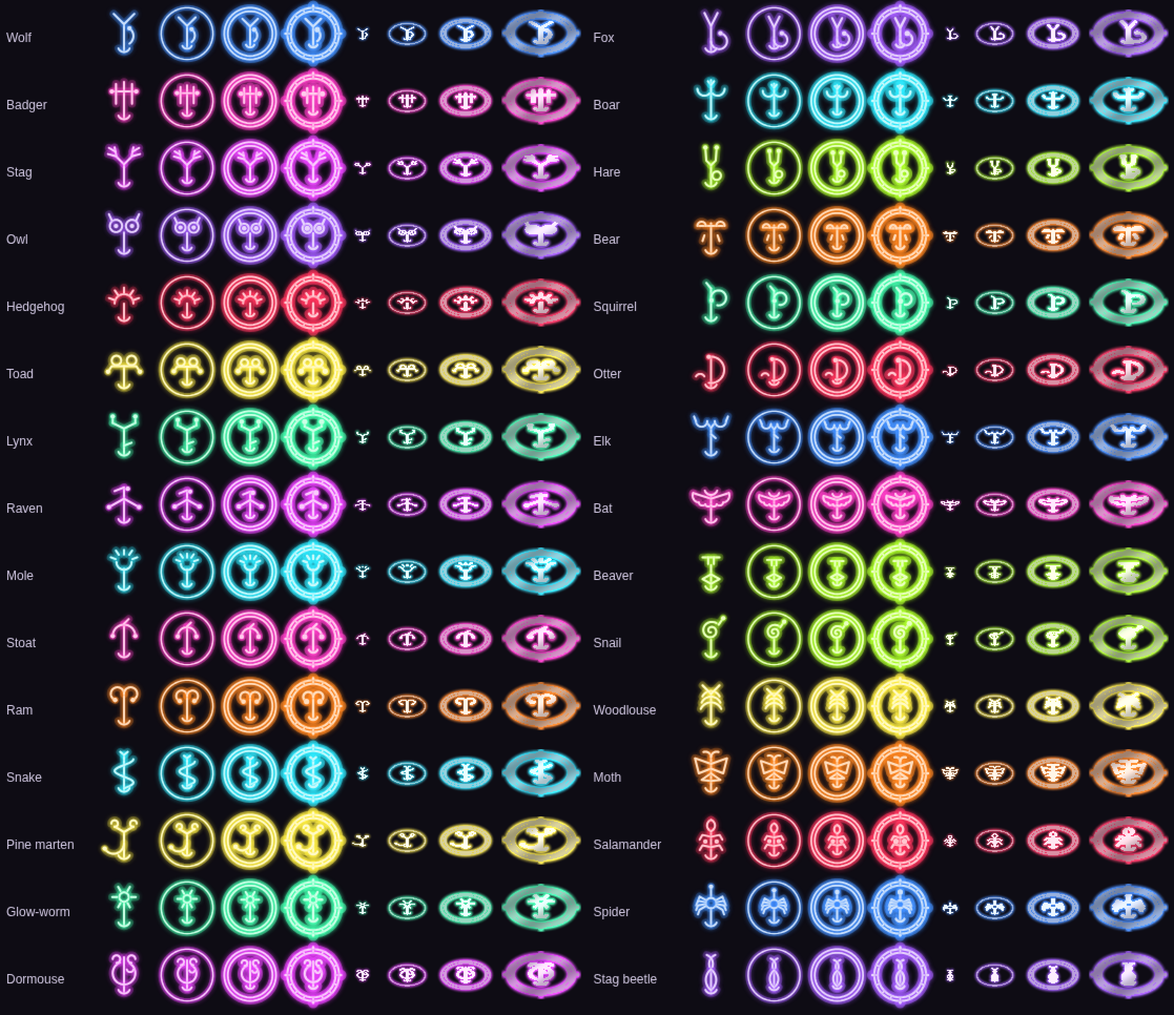
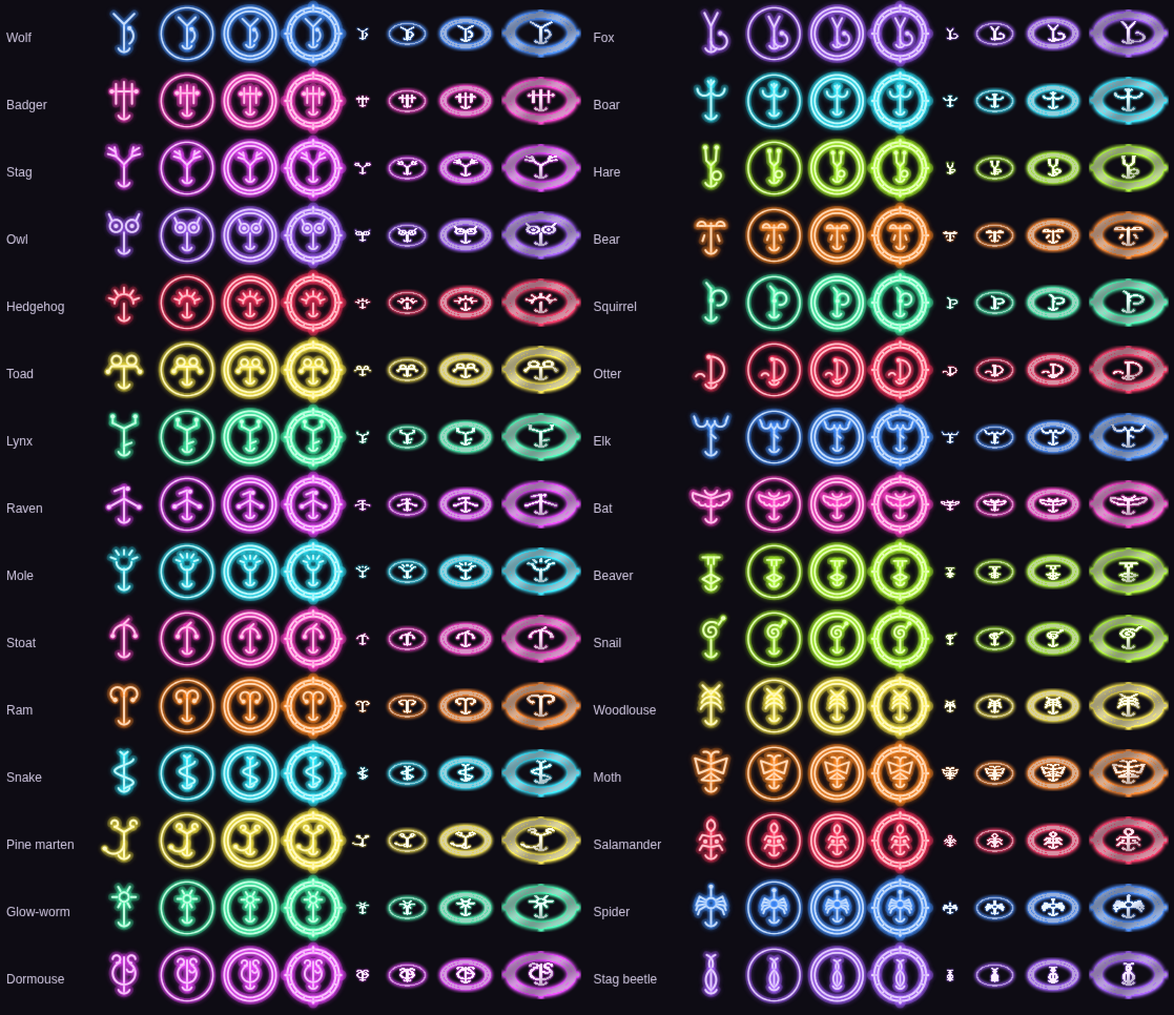
Flowers no longer glow; ground sigils stay crisp at adult and legend
Ed's playtest: gorse flowers glowed over bushes the night hid. FLOWER
leaves EMISSIVE; webs, cotton grass and the garden's white flowers move
to plain materials; only magical light glows (checked). The ground
sigil's glyph keeps thin core lines and a capped halo at every level,
the rings carrying the extra glow.

Claude-Session: https://claude.ai/code/session_01FVGKHvaavDn5xGsWtRTBaz

diff --git a/tools/art-lab/dist/witch-art-lab.html b/tools/art-lab/dist/witch-art-lab.html
@@ -248,6 +248,7 @@ const M = {
   SHADES: 46, FRAME: 47,       // sunglasses: dark lenses, fancy frames
   SHOE: 48, SOLE: 49,          // fancy shoes
   WOKEN: 50,   // a woken creature's angry glowing eyes
+  WEB: 51,     // pale silk and cotton: spider webs, cotton grass (lit, not glowing)
 };
 // These glow: drawn at full colour by the lighting pass, whatever the light.
 // The rune glyphs: one carved-rune language for the magic stones and the soundsystem. Simple,
@@ -266,7 +267,9 @@ function runeGlyph(u, v, k, w = .12) {
     default: return line(.3, .08, .3, .92) || line(.3, .12, .75, .35) || line(.75, .35, .3, .55) || line(.3, .55, .78, .92); // a hooked stave
   }
 }
-const EMISSIVE = new Set([M.GLINT, M.FLOWER, M.MAGIC, M.MAGIC2, M.RUNE, M.GLOW, M.COLLAR, M.WOKEN]);
+// Glowing materials (alpha 254, drawn unlit): only magical light. Flowers, webs and cotton are lit like
+// the rest of a plant (Ed's playtest: glowing gorse flowers floated over bushes the night hid).
+const EMISSIVE = new Set([M.GLINT, M.MAGIC, M.MAGIC2, M.RUNE, M.GLOW, M.COLLAR, M.WOKEN]);
 
 // ================= geometry: smooth outlines =================
 // Points are [x, y] in sprite pixels. A closed outline is a list of control points; the
@@ -634,7 +637,7 @@ function broadTree(r, st, s) {
   }
   roots(sp, bx, gy, tw * Math.sqrt(n), st, r, s);
   bark(sp, st);
-  if (st.treeWebs) for (let i = 0; i + 1 < tips.length; i += 2) { const a = tips[i], c = tips[i + 1], L = Math.hypot(c[0] - a[0], c[1] - a[1]); if (L < 40 * s) for (let j = 0; j <= L; j++) { const p = lerp2(a, c, j / L); sp.px(p[0], p[1] + Math.sin(j / L * Math.PI) * L * .15, M.GLINT, 0, 0, 1); } }
+  if (st.treeWebs) for (let i = 0; i + 1 < tips.length; i += 2) { const a = tips[i], c = tips[i + 1], L = Math.hypot(c[0] - a[0], c[1] - a[1]); if (L < 40 * s) for (let j = 0; j <= L; j++) { const p = lerp2(a, c, j / L); sp.px(p[0], p[1] + Math.sin(j / L * Math.PI) * L * .15, M.WEB, 0, 0, 1); } }
   if (st.treeBare) return trim(sp, bx, crownY + 4 * s);
   // clumps at the tips: back ones darker first, then the front
   tips.sort((a, b) => a[1] - b[1]);
@@ -770,7 +773,7 @@ function treeColours(r, st, type) {
   const h = st.leafHue + (r() - .5) * st.leafVariety * .7 + (type === firTree ? .06 : 0);
   return {
     [M.TRUNK]: hsv2rgb(st.trunkHue, .45 * st.sat, .34), [M.BARKD]: hsv2rgb(st.trunkHue + .03, .5 * st.sat, .17), [M.BARKL]: hsv2rgb(st.trunkHue - .01, .38 * st.sat, .5), [M.BARK2]: [222, 220, 212],
-    [M.LEAF]: hsv2rgb(h, .62 * st.sat, .58), [M.LEAF2]: hsv2rgb(h - .05, .55 * st.sat, .8), [M.LEAF3]: hsv2rgb(h + .03, .66 * st.sat, .38),
+    [M.LEAF]: hsv2rgb(h, .62 * st.sat, .58), [M.LEAF2]: hsv2rgb(h - .05, .55 * st.sat, .8), [M.LEAF3]: hsv2rgb(h + .03, .66 * st.sat, .38), [M.WEB]: [225, 225, 232],
   };
 }
 // The trunk was drawn with its roots and bark; this stays for callers of the old API.
@@ -1881,7 +1884,8 @@ function sigilMark(id, level = 0) {
     if (F.band && F.rings >= 2) for (let i = 0; i < 16; i++) { const a = (90 + i * 22.5) * Math.PI / 180, r0 = R - .06 + .014, r1 = R - .014; frame.push({ ...polyline({ l: [[.5 + r0 * Math.cos(a), .5 + r0 * Math.sin(a)], [.5 + r1 * Math.cos(a), .5 + r1 * Math.sin(a)]] }), w: ring * .8, part: "band" }); }
     for (let i = 0; i < F.rays; i++) { const a = (90 + i * 360 / F.rays) * Math.PI / 180, r0 = R + .02, r1 = .5 - ring / 2; frame.push({ ...polyline({ l: [[.5 + r0 * Math.cos(a), .5 + r0 * Math.sin(a)], [.5 + r1 * Math.cos(a), .5 + r1 * Math.sin(a)]] }), w: ring * 1.3, part: "ray" }); }
   }
-  const sig = sigilStrokes(id).map(s => ({ dot: s.dot, len: s.len * k, pts: s.pts.map(([x, y]) => [o + x * k, o + y * k]), w: s.w * k * thick, r: SIGIL_DOT * k * thick, part: "sigil" }));
+  const gk = Math.min(1.25, thick); // the glyph thickens a little with level, never enough to clog (the rings carry the rest)
+  const sig = sigilStrokes(id).map(s => ({ dot: s.dot, len: s.len * k, pts: s.pts.map(([x, y]) => [o + x * k, o + y * k]), w: s.w * k * gk, r: SIGIL_DOT * k * gk, part: "sigil" }));
   const out = { level, frame: F, k, strokes: [...timeline(frame, 0, frame.length ? .15 : 0), ...timeline(sig, frame.length ? .15 : 0, 1)] };
   markCache.set(key, out);
   return out;
@@ -1926,7 +1930,7 @@ function drawSigil(ctx, id, { x = 0, y = 0, size = 64, level = null, colour = si
       ctx.lineWidth = s.w * wk; pts.forEach((p, i) => i ? ctx.lineTo(p[0], p[1]) : ctx.moveTo(p[0], p[1])); ctx.stroke();
     }
   };
-  if (glow) { pass(colour, 2.4, halo * .55, size / 12); pass(toward(colour, WHITE, .72), .62, 1, size / 30); }
+  if (glow) { pass(colour, 2.4, Math.min(halo, .7) * .55, size / 12); pass(toward(colour, WHITE, .72), .62, 1, size / 30); }
   else pass(colour, 1, 1, 0);
   ctx.restore();
 }
@@ -1967,19 +1971,21 @@ function sigilGlyph(id, size = 16, { progress = 1 } = {}) {
 const GROUND_PITCH = 35 * Math.PI / 180;
 function sigilField(id, { level = 0, size = 64, squash = 1 } = {}) {
   const M = sigilMark(id, level), F = M.frame || sigilFrame(0), w = Math.ceil(size) + 4, h = Math.ceil(size * squash) + 4;
-  const reach = 2 + 2 * F.halo; // halo, in pixels past the core
-  const atCore = new Float32Array(w * h).fill(Infinity), atHalo = new Float32Array(w * h).fill(Infinity), dist = new Float32Array(w * h).fill(Infinity), part = new Uint8Array(w * h);
+  // halo, in pixels past the core: the glyph's stays tight so its lines stay distinct at every level; the rings and ornament carry the extra glow
+  const reach = 2 + 2 * F.halo, reachOf = kind => kind === 1 ? Math.min(2, reach) : reach + 1;
+  const atCore = new Float32Array(w * h).fill(Infinity), atHalo = new Float32Array(w * h).fill(Infinity), fall = new Float32Array(w * h).fill(Infinity), part = new Uint8Array(w * h), haloPart = new Uint8Array(w * h);
   // segments in pixel space, each with its core radius and its place in the draw-on
   const segs = [];
   for (const s of M.strokes) {
-    const P = s.pts.map(([u, v]) => [2 + u * size, 2 + v * size * squash]), core = Math.max(.6, (s.dot ? s.r : s.w / 2) * size), kind = s.part === "sigil" ? 1 : 2;
+    // the glyph's core lines stay thin in pixels, however big the mark, so its marks never run together
+    const P = s.pts.map(([u, v]) => [2 + u * size, 2 + v * size * squash]), kind = s.part === "sigil" ? 1 : 2, core = Math.max(.6, Math.min((s.dot ? s.r : s.w / 2) * size, kind === 1 ? (s.dot ? 1.6 : 1) + .15 * F.level : Infinity));
     if (s.dot) { segs.push({ a: P[0], b: P[0], at0: s.start, at1: s.start, core, kind }); continue; }
     let run = 0;
     for (let i = 1; i < P.length; i++) { const l = Math.hypot(s.pts[i][0] - s.pts[i - 1][0], s.pts[i][1] - s.pts[i - 1][1]); segs.push({ a: P[i - 1], b: P[i], at0: s.start + run / s.len * (s.end - s.start), at1: s.start + (run + l) / s.len * (s.end - s.start), core, kind }); run += l; }
   }
   for (const g of segs) { // only the pixels near each segment
-    const x0 = Math.max(0, Math.floor(Math.min(g.a[0], g.b[0]) - g.core - reach)), x1 = Math.min(w - 1, Math.ceil(Math.max(g.a[0], g.b[0]) + g.core + reach));
-    const y0 = Math.max(0, Math.floor(Math.min(g.a[1], g.b[1]) - g.core - reach)), y1 = Math.min(h - 1, Math.ceil(Math.max(g.a[1], g.b[1]) + g.core + reach));
+    const R = reachOf(g.kind), x0 = Math.max(0, Math.floor(Math.min(g.a[0], g.b[0]) - g.core - R)), x1 = Math.min(w - 1, Math.ceil(Math.max(g.a[0], g.b[0]) + g.core + R));
+    const y0 = Math.max(0, Math.floor(Math.min(g.a[1], g.b[1]) - g.core - R)), y1 = Math.min(h - 1, Math.ceil(Math.max(g.a[1], g.b[1]) + g.core + R));
     const dx = g.b[0] - g.a[0], dy = g.b[1] - g.a[1], l2 = dx * dx + dy * dy;
     for (let y = y0; y <= y1; y++) for (let x = x0; x <= x1; x++) {
       const px = x + .5, py = y + .5, t = l2 ? Math.max(0, Math.min(1, ((px - g.a[0]) * dx + (py - g.a[1]) * dy) / l2)) : 0;
@@ -1987,11 +1993,11 @@ function sigilField(id, { level = 0, size = 64, squash = 1 } = {}) {
       const ex = px - g.a[0] - dx * t, ey = py - g.a[1] - dy * t, dPlane = Math.hypot(ex, ey / squash), dScreen = Math.hypot(ex, ey), at = g.at0 + (g.at1 - g.at0) * t, i = y * w + x;
       const inCore = dPlane <= g.core || dScreen <= .6, d = Math.max(0, Math.min(dScreen, dPlane) - g.core);
       if (inCore && at < atCore[i]) { atCore[i] = at; part[i] = g.kind; }
-      if (d <= reach && at < atHalo[i]) atHalo[i] = at;
-      if (d < dist[i]) dist[i] = d;
+      if (d <= R && at < atHalo[i]) atHalo[i] = at;
+      if (d / R < fall[i]) { fall[i] = d / R; haloPart[i] = g.kind; }
     }
   }
-  return { id, level, frame: F, w, h, size, squash, reach, atCore, atHalo, dist, part };
+  return { id, level, frame: F, w, h, size, squash, reach, atCore, atHalo, fall, part, haloPart };
 }
 // The leashing rune on the ground: a sigilField foreshortened by the pitch, sized by its
 // level's frame (metres) at pxPerMetre.
@@ -2021,8 +2027,8 @@ function paintSigilField(g, t, { colour = sigilColour(g.id), canvas, progress, m
       const col = g.part[i] === 2 ? toward(colour, WHITE, .35 + .2 * pulse) : toward(core, WHITE, tip);
       d.set([col[0], col[1], col[2], Math.round(255 * Math.min(1, (g.part[i] === 2 ? .8 : 1) * flicker * sh))], i * 4);
     } else {
-      const f = Math.max(0, 1 - g.dist[i] / g.reach); // soft falloff
-      d.set([colour[0], colour[1], colour[2], Math.round(255 * f * f * haloK * sh)], i * 4);
+      const f = Math.max(0, 1 - g.fall[i]), k = g.haloPart[i] === 1 ? Math.min(haloK, .6) : haloK; // soft falloff; the glyph's own halo capped
+      d.set([colour[0], colour[1], colour[2], Math.round(255 * f * f * k * sh)], i * 4);
     }
   }
   ctx.putImageData(img, 0, 0);
@@ -2238,7 +2244,7 @@ function prop(kind, o, def, st, r, s) {
     const ts = { ...st, leafHue: def.leaf + (o.dark ? .05 : 0), gnarl: o.gnarl ?? st.gnarl, treeBare: o.bare, treeTrunks: o.trunks, treeLean: o.lean, treeThick: o.thick, treeThin: o.thin, treeHollow: o.hollow, treeWebs: o.webs };
     const t = f(r, ts, st.treeSize * s * (o.scale || 1) * uni(r, .9, 1.1));
     const c = treeColours(r, ts, f); if (o.dark) { c[M.LEAF] = c[M.LEAF3]; c[M.LEAF3] = hsv2rgb(def.leaf + .05, .7, .22); }
-    c[M.NOSE] = [20, 16, 24]; c[M.GLINT] = [235, 235, 240];
+    c[M.NOSE] = [20, 16, 24]; c[M.WEB] = [225, 225, 232];
     return { sp: t.sp, colours: c };
   }
   if (kind === "shrub") { // a leafy bush, flowering or berried
@@ -2254,11 +2260,11 @@ function prop(kind, o, def, st, r, s) {
     for (let k = 0; k < n; k++) {
       const x0 = cx + uni(r, -16, 16) * s, h = hgt * uni(r, .5, 1), lean = kind === "fern" ? uni(r, -6, 6) * s : uni(r, -2, 2) * s, y0 = gy - 1 - (kind === "flowerbed" ? 5 * s : 0);
       for (let j = 0; j < h; j++) { const t = j / h; sp.px(x0 + lean * t * t, y0 - j, t > .7 ? M.LEAF2 : t < .3 ? M.LEAF3 : M.LEAF, lean * .05, -.3, .9); if (kind === "fern" && j % 2) sp.px(x0 + lean * t * t + (lean > 0 ? 1 : -1), y0 - j + 1, M.LEAF2, 0, -.3, .9); }
-      if (kind === "reeds" && (o.cotton ? true : r() < .5)) for (let j = 0; j < (o.cotton ? 2 : 3); j++) sp.px(x0 + lean, y0 - h - j, o.cotton ? M.GLINT : M.TRUNK, 0, -.5, .85);
+      if (kind === "reeds" && (o.cotton ? true : r() < .5)) for (let j = 0; j < (o.cotton ? 2 : 3); j++) sp.px(x0 + lean, y0 - h - j, o.cotton ? M.WEB : M.TRUNK, 0, -.5, .85);
       if ((kind === "flowers" || kind === "flowerbed") && r() < .7) { sp.px(x0 + lean, y0 - h, M.FLOWER, 0, -.5, .85); sp.px(x0 + lean + 1, y0 - h, M.FLOWER, 0, -.5, .85); }
     }
-    colours = { ...leafCol, [M.FLOWER]: kind === "flowerbed" ? pick(r, [[230, 80, 120], [250, 210, 60], [150, 110, 230]]) : hsv2rgb(o.hue ?? .95, .6, .85), [M.TRUNK]: hsv2rgb(.07, .5, .35), [M.GLINT]: [240, 240, 235], [M.ACCENT]: hsv2rgb(.08, .1, .55) };
-    if (kind === "flowerbed") { for (let i = 0; i < sp.m.length; i++) if (sp.m[i] === M.FLOWER && hash2(i, 2, 7) < .5) sp.m[i] = M.MAGIC2; colours[M.MAGIC2] = [250, 245, 240]; }
+    colours = { ...leafCol, [M.FLOWER]: kind === "flowerbed" ? pick(r, [[230, 80, 120], [250, 210, 60], [150, 110, 230]]) : hsv2rgb(o.hue ?? .95, .6, .85), [M.TRUNK]: hsv2rgb(.07, .5, .35), [M.WEB]: [240, 240, 235], [M.ACCENT]: hsv2rgb(.08, .1, .55) };
+    if (kind === "flowerbed") { for (let i = 0; i < sp.m.length; i++) if (sp.m[i] === M.FLOWER && hash2(i, 2, 7) < .5) sp.m[i] = M.BELLY; colours[M.BELLY] = [250, 245, 240]; } // some white flowers among the coloured (lit: flowers never glow)
   } else if (kind === "stones") {
     for (let k = 0; k < (o.big ? 3 : 6); k++) rock(sp, [cx + uni(r, -14, 14) * s, gy - (o.big ? 5 : 2.5) * s], (o.big ? 6 : 3) * s * uni(r, .7, 1.2), (o.big ? 5 : 2.5) * s, st, r);
     colours = stoneCol();
@@ -2324,9 +2330,9 @@ function prop(kind, o, def, st, r, s) {
     colours = stoneCol();
   } else if (kind === "web") {
     const c = [cx, gy - 14 * s], R = 11 * s;
-    for (let k = 0; k < 8; k++) { const a = k / 8 * Math.PI * 2; for (let j = 0; j < R; j++) sp.px(c[0] + Math.cos(a) * j, c[1] + Math.sin(a) * j, M.GLINT, 0, 0, 1); }
-    for (let ring = 3 * s; ring < R; ring += 3 * s) for (let a = 0; a < Math.PI * 2; a += .05) sp.px(c[0] + Math.cos(a) * ring, c[1] + Math.sin(a) * ring, M.GLINT, 0, 0, 1);
-    colours = { [M.GLINT]: [225, 230, 240] };
+    for (let k = 0; k < 8; k++) { const a = k / 8 * Math.PI * 2; for (let j = 0; j < R; j++) sp.px(c[0] + Math.cos(a) * j, c[1] + Math.sin(a) * j, M.WEB, 0, 0, 1); }
+    for (let ring = 3 * s; ring < R; ring += 3 * s) for (let a = 0; a < Math.PI * 2; a += .05) sp.px(c[0] + Math.cos(a) * ring, c[1] + Math.sin(a) * ring, M.WEB, 0, 0, 1);
+    colours = { [M.WEB]: [225, 230, 240] };
   }
   return { sp, colours };
 }

diff --git a/art/sigils.js b/art/sigils.js
@@ -167,7 +167,8 @@ export function sigilMark(id, level = 0) {
     if (F.band && F.rings >= 2) for (let i = 0; i < 16; i++) { const a = (90 + i * 22.5) * Math.PI / 180, r0 = R - .06 + .014, r1 = R - .014; frame.push({ ...polyline({ l: [[.5 + r0 * Math.cos(a), .5 + r0 * Math.sin(a)], [.5 + r1 * Math.cos(a), .5 + r1 * Math.sin(a)]] }), w: ring * .8, part: "band" }); }
     for (let i = 0; i < F.rays; i++) { const a = (90 + i * 360 / F.rays) * Math.PI / 180, r0 = R + .02, r1 = .5 - ring / 2; frame.push({ ...polyline({ l: [[.5 + r0 * Math.cos(a), .5 + r0 * Math.sin(a)], [.5 + r1 * Math.cos(a), .5 + r1 * Math.sin(a)]] }), w: ring * 1.3, part: "ray" }); }
   }
-  const sig = sigilStrokes(id).map(s => ({ dot: s.dot, len: s.len * k, pts: s.pts.map(([x, y]) => [o + x * k, o + y * k]), w: s.w * k * thick, r: SIGIL_DOT * k * thick, part: "sigil" }));
+  const gk = Math.min(1.25, thick); // the glyph thickens a little with level, never enough to clog (the rings carry the rest)
+  const sig = sigilStrokes(id).map(s => ({ dot: s.dot, len: s.len * k, pts: s.pts.map(([x, y]) => [o + x * k, o + y * k]), w: s.w * k * gk, r: SIGIL_DOT * k * gk, part: "sigil" }));
   const out = { level, frame: F, k, strokes: [...timeline(frame, 0, frame.length ? .15 : 0), ...timeline(sig, frame.length ? .15 : 0, 1)] };
   markCache.set(key, out);
   return out;
@@ -212,7 +213,7 @@ export function drawSigil(ctx, id, { x = 0, y = 0, size = 64, level = null, colo
       ctx.lineWidth = s.w * wk; pts.forEach((p, i) => i ? ctx.lineTo(p[0], p[1]) : ctx.moveTo(p[0], p[1])); ctx.stroke();
     }
   };
-  if (glow) { pass(colour, 2.4, halo * .55, size / 12); pass(toward(colour, WHITE, .72), .62, 1, size / 30); }
+  if (glow) { pass(colour, 2.4, Math.min(halo, .7) * .55, size / 12); pass(toward(colour, WHITE, .72), .62, 1, size / 30); }
   else pass(colour, 1, 1, 0);
   ctx.restore();
 }
@@ -253,19 +254,21 @@ export function sigilGlyph(id, size = 16, { progress = 1 } = {}) {
 export const GROUND_PITCH = 35 * Math.PI / 180;
 export function sigilField(id, { level = 0, size = 64, squash = 1 } = {}) {
   const M = sigilMark(id, level), F = M.frame || sigilFrame(0), w = Math.ceil(size) + 4, h = Math.ceil(size * squash) + 4;
-  const reach = 2 + 2 * F.halo; // halo, in pixels past the core
-  const atCore = new Float32Array(w * h).fill(Infinity), atHalo = new Float32Array(w * h).fill(Infinity), dist = new Float32Array(w * h).fill(Infinity), part = new Uint8Array(w * h);
+  // halo, in pixels past the core: the glyph's stays tight so its lines stay distinct at every level; the rings and ornament carry the extra glow
+  const reach = 2 + 2 * F.halo, reachOf = kind => kind === 1 ? Math.min(2, reach) : reach + 1;
+  const atCore = new Float32Array(w * h).fill(Infinity), atHalo = new Float32Array(w * h).fill(Infinity), fall = new Float32Array(w * h).fill(Infinity), part = new Uint8Array(w * h), haloPart = new Uint8Array(w * h);
   // segments in pixel space, each with its core radius and its place in the draw-on
   const segs = [];
   for (const s of M.strokes) {
-    const P = s.pts.map(([u, v]) => [2 + u * size, 2 + v * size * squash]), core = Math.max(.6, (s.dot ? s.r : s.w / 2) * size), kind = s.part === "sigil" ? 1 : 2;
+    // the glyph's core lines stay thin in pixels, however big the mark, so its marks never run together
+    const P = s.pts.map(([u, v]) => [2 + u * size, 2 + v * size * squash]), kind = s.part === "sigil" ? 1 : 2, core = Math.max(.6, Math.min((s.dot ? s.r : s.w / 2) * size, kind === 1 ? (s.dot ? 1.6 : 1) + .15 * F.level : Infinity));
     if (s.dot) { segs.push({ a: P[0], b: P[0], at0: s.start, at1: s.start, core, kind }); continue; }
     let run = 0;
     for (let i = 1; i < P.length; i++) { const l = Math.hypot(s.pts[i][0] - s.pts[i - 1][0], s.pts[i][1] - s.pts[i - 1][1]); segs.push({ a: P[i - 1], b: P[i], at0: s.start + run / s.len * (s.end - s.start), at1: s.start + (run + l) / s.len * (s.end - s.start), core, kind }); run += l; }
   }
   for (const g of segs) { // only the pixels near each segment
-    const x0 = Math.max(0, Math.floor(Math.min(g.a[0], g.b[0]) - g.core - reach)), x1 = Math.min(w - 1, Math.ceil(Math.max(g.a[0], g.b[0]) + g.core + reach));
-    const y0 = Math.max(0, Math.floor(Math.min(g.a[1], g.b[1]) - g.core - reach)), y1 = Math.min(h - 1, Math.ceil(Math.max(g.a[1], g.b[1]) + g.core + reach));
+    const R = reachOf(g.kind), x0 = Math.max(0, Math.floor(Math.min(g.a[0], g.b[0]) - g.core - R)), x1 = Math.min(w - 1, Math.ceil(Math.max(g.a[0], g.b[0]) + g.core + R));
+    const y0 = Math.max(0, Math.floor(Math.min(g.a[1], g.b[1]) - g.core - R)), y1 = Math.min(h - 1, Math.ceil(Math.max(g.a[1], g.b[1]) + g.core + R));
     const dx = g.b[0] - g.a[0], dy = g.b[1] - g.a[1], l2 = dx * dx + dy * dy;
     for (let y = y0; y <= y1; y++) for (let x = x0; x <= x1; x++) {
       const px = x + .5, py = y + .5, t = l2 ? Math.max(0, Math.min(1, ((px - g.a[0]) * dx + (py - g.a[1]) * dy) / l2)) : 0;
@@ -273,11 +276,11 @@ export function sigilField(id, { level = 0, size = 64, squash = 1 } = {}) {
       const ex = px - g.a[0] - dx * t, ey = py - g.a[1] - dy * t, dPlane = Math.hypot(ex, ey / squash), dScreen = Math.hypot(ex, ey), at = g.at0 + (g.at1 - g.at0) * t, i = y * w + x;
       const inCore = dPlane <= g.core || dScreen <= .6, d = Math.max(0, Math.min(dScreen, dPlane) - g.core);
       if (inCore && at < atCore[i]) { atCore[i] = at; part[i] = g.kind; }
-      if (d <= reach && at < atHalo[i]) atHalo[i] = at;
-      if (d < dist[i]) dist[i] = d;
+      if (d <= R && at < atHalo[i]) atHalo[i] = at;
+      if (d / R < fall[i]) { fall[i] = d / R; haloPart[i] = g.kind; }
     }
   }
-  return { id, level, frame: F, w, h, size, squash, reach, atCore, atHalo, dist, part };
+  return { id, level, frame: F, w, h, size, squash, reach, atCore, atHalo, fall, part, haloPart };
 }
 // The leashing rune on the ground: a sigilField foreshortened by the pitch, sized by its
 // level's frame (metres) at pxPerMetre.
@@ -307,8 +310,8 @@ export function paintSigilField(g, t, { colour = sigilColour(g.id), canvas, prog
       const col = g.part[i] === 2 ? toward(colour, WHITE, .35 + .2 * pulse) : toward(core, WHITE, tip);
       d.set([col[0], col[1], col[2], Math.round(255 * Math.min(1, (g.part[i] === 2 ? .8 : 1) * flicker * sh))], i * 4);
     } else {
-      const f = Math.max(0, 1 - g.dist[i] / g.reach); // soft falloff
-      d.set([colour[0], colour[1], colour[2], Math.round(255 * f * f * haloK * sh)], i * 4);
+      const f = Math.max(0, 1 - g.fall[i]), k = g.haloPart[i] === 1 ? Math.min(haloK, .6) : haloK; // soft falloff; the glyph's own halo capped
+      d.set([colour[0], colour[1], colour[2], Math.round(255 * f * f * k * sh)], i * 4);
     }
   }
   ctx.putImageData(img, 0, 0);

diff --git a/art/areas.js b/art/areas.js
@@ -137,7 +137,7 @@ function prop(kind, o, def, st, r, s) {
     const ts = { ...st, leafHue: def.leaf + (o.dark ? .05 : 0), gnarl: o.gnarl ?? st.gnarl, treeBare: o.bare, treeTrunks: o.trunks, treeLean: o.lean, treeThick: o.thick, treeThin: o.thin, treeHollow: o.hollow, treeWebs: o.webs };
     const t = f(r, ts, st.treeSize * s * (o.scale || 1) * uni(r, .9, 1.1));
     const c = treeColours(r, ts, f); if (o.dark) { c[M.LEAF] = c[M.LEAF3]; c[M.LEAF3] = hsv2rgb(def.leaf + .05, .7, .22); }
-    c[M.NOSE] = [20, 16, 24]; c[M.GLINT] = [235, 235, 240];
+    c[M.NOSE] = [20, 16, 24]; c[M.WEB] = [225, 225, 232];
     return { sp: t.sp, colours: c };
   }
   if (kind === "shrub") { // a leafy bush, flowering or berried
@@ -153,11 +153,11 @@ function prop(kind, o, def, st, r, s) {
     for (let k = 0; k < n; k++) {
       const x0 = cx + uni(r, -16, 16) * s, h = hgt * uni(r, .5, 1), lean = kind === "fern" ? uni(r, -6, 6) * s : uni(r, -2, 2) * s, y0 = gy - 1 - (kind === "flowerbed" ? 5 * s : 0);
       for (let j = 0; j < h; j++) { const t = j / h; sp.px(x0 + lean * t * t, y0 - j, t > .7 ? M.LEAF2 : t < .3 ? M.LEAF3 : M.LEAF, lean * .05, -.3, .9); if (kind === "fern" && j % 2) sp.px(x0 + lean * t * t + (lean > 0 ? 1 : -1), y0 - j + 1, M.LEAF2, 0, -.3, .9); }
-      if (kind === "reeds" && (o.cotton ? true : r() < .5)) for (let j = 0; j < (o.cotton ? 2 : 3); j++) sp.px(x0 + lean, y0 - h - j, o.cotton ? M.GLINT : M.TRUNK, 0, -.5, .85);
+      if (kind === "reeds" && (o.cotton ? true : r() < .5)) for (let j = 0; j < (o.cotton ? 2 : 3); j++) sp.px(x0 + lean, y0 - h - j, o.cotton ? M.WEB : M.TRUNK, 0, -.5, .85);
       if ((kind === "flowers" || kind === "flowerbed") && r() < .7) { sp.px(x0 + lean, y0 - h, M.FLOWER, 0, -.5, .85); sp.px(x0 + lean + 1, y0 - h, M.FLOWER, 0, -.5, .85); }
     }
-    colours = { ...leafCol, [M.FLOWER]: kind === "flowerbed" ? pick(r, [[230, 80, 120], [250, 210, 60], [150, 110, 230]]) : hsv2rgb(o.hue ?? .95, .6, .85), [M.TRUNK]: hsv2rgb(.07, .5, .35), [M.GLINT]: [240, 240, 235], [M.ACCENT]: hsv2rgb(.08, .1, .55) };
-    if (kind === "flowerbed") { for (let i = 0; i < sp.m.length; i++) if (sp.m[i] === M.FLOWER && hash2(i, 2, 7) < .5) sp.m[i] = M.MAGIC2; colours[M.MAGIC2] = [250, 245, 240]; }
+    colours = { ...leafCol, [M.FLOWER]: kind === "flowerbed" ? pick(r, [[230, 80, 120], [250, 210, 60], [150, 110, 230]]) : hsv2rgb(o.hue ?? .95, .6, .85), [M.TRUNK]: hsv2rgb(.07, .5, .35), [M.WEB]: [240, 240, 235], [M.ACCENT]: hsv2rgb(.08, .1, .55) };
+    if (kind === "flowerbed") { for (let i = 0; i < sp.m.length; i++) if (sp.m[i] === M.FLOWER && hash2(i, 2, 7) < .5) sp.m[i] = M.BELLY; colours[M.BELLY] = [250, 245, 240]; } // some white flowers among the coloured (lit: flowers never glow)
   } else if (kind === "stones") {
     for (let k = 0; k < (o.big ? 3 : 6); k++) rock(sp, [cx + uni(r, -14, 14) * s, gy - (o.big ? 5 : 2.5) * s], (o.big ? 6 : 3) * s * uni(r, .7, 1.2), (o.big ? 5 : 2.5) * s, st, r);
     colours = stoneCol();
@@ -223,9 +223,9 @@ function prop(kind, o, def, st, r, s) {
     colours = stoneCol();
   } else if (kind === "web") {
     const c = [cx, gy - 14 * s], R = 11 * s;
-    for (let k = 0; k < 8; k++) { const a = k / 8 * Math.PI * 2; for (let j = 0; j < R; j++) sp.px(c[0] + Math.cos(a) * j, c[1] + Math.sin(a) * j, M.GLINT, 0, 0, 1); }
-    for (let ring = 3 * s; ring < R; ring += 3 * s) for (let a = 0; a < Math.PI * 2; a += .05) sp.px(c[0] + Math.cos(a) * ring, c[1] + Math.sin(a) * ring, M.GLINT, 0, 0, 1);
-    colours = { [M.GLINT]: [225, 230, 240] };
+    for (let k = 0; k < 8; k++) { const a = k / 8 * Math.PI * 2; for (let j = 0; j < R; j++) sp.px(c[0] + Math.cos(a) * j, c[1] + Math.sin(a) * j, M.WEB, 0, 0, 1); }
+    for (let ring = 3 * s; ring < R; ring += 3 * s) for (let a = 0; a < Math.PI * 2; a += .05) sp.px(c[0] + Math.cos(a) * ring, c[1] + Math.sin(a) * ring, M.WEB, 0, 0, 1);
+    colours = { [M.WEB]: [225, 230, 240] };
   }
   return { sp, colours };
 }

diff --git a/art/trees.js b/art/trees.js
@@ -114,7 +114,7 @@ export function broadTree(r, st, s) {
   }
   roots(sp, bx, gy, tw * Math.sqrt(n), st, r, s);
   bark(sp, st);
-  if (st.treeWebs) for (let i = 0; i + 1 < tips.length; i += 2) { const a = tips[i], c = tips[i + 1], L = Math.hypot(c[0] - a[0], c[1] - a[1]); if (L < 40 * s) for (let j = 0; j <= L; j++) { const p = lerp2(a, c, j / L); sp.px(p[0], p[1] + Math.sin(j / L * Math.PI) * L * .15, M.GLINT, 0, 0, 1); } }
+  if (st.treeWebs) for (let i = 0; i + 1 < tips.length; i += 2) { const a = tips[i], c = tips[i + 1], L = Math.hypot(c[0] - a[0], c[1] - a[1]); if (L < 40 * s) for (let j = 0; j <= L; j++) { const p = lerp2(a, c, j / L); sp.px(p[0], p[1] + Math.sin(j / L * Math.PI) * L * .15, M.WEB, 0, 0, 1); } }
   if (st.treeBare) return trim(sp, bx, crownY + 4 * s);
   // clumps at the tips: back ones darker first, then the front
   tips.sort((a, b) => a[1] - b[1]);
@@ -250,7 +250,7 @@ export function treeColours(r, st, type) {
   const h = st.leafHue + (r() - .5) * st.leafVariety * .7 + (type === firTree ? .06 : 0);
   return {
     [M.TRUNK]: hsv2rgb(st.trunkHue, .45 * st.sat, .34), [M.BARKD]: hsv2rgb(st.trunkHue + .03, .5 * st.sat, .17), [M.BARKL]: hsv2rgb(st.trunkHue - .01, .38 * st.sat, .5), [M.BARK2]: [222, 220, 212],
-    [M.LEAF]: hsv2rgb(h, .62 * st.sat, .58), [M.LEAF2]: hsv2rgb(h - .05, .55 * st.sat, .8), [M.LEAF3]: hsv2rgb(h + .03, .66 * st.sat, .38),
+    [M.LEAF]: hsv2rgb(h, .62 * st.sat, .58), [M.LEAF2]: hsv2rgb(h - .05, .55 * st.sat, .8), [M.LEAF3]: hsv2rgb(h + .03, .66 * st.sat, .38), [M.WEB]: [225, 225, 232],
   };
 }
 // The trunk was drawn with its roots and bark; this stays for callers of the old API.

diff --git a/art/core.js b/art/core.js
@@ -56,6 +56,7 @@ export const M = {
   SHADES: 46, FRAME: 47,       // sunglasses: dark lenses, fancy frames
   SHOE: 48, SOLE: 49,          // fancy shoes
   WOKEN: 50,   // a woken creature's angry glowing eyes
+  WEB: 51,     // pale silk and cotton: spider webs, cotton grass (lit, not glowing)
 };
 // These glow: drawn at full colour by the lighting pass, whatever the light.
 // The rune glyphs: one carved-rune language for the magic stones and the soundsystem. Simple,
@@ -74,7 +75,9 @@ export function runeGlyph(u, v, k, w = .12) {
     default: return line(.3, .08, .3, .92) || line(.3, .12, .75, .35) || line(.75, .35, .3, .55) || line(.3, .55, .78, .92); // a hooked stave
   }
 }
-export const EMISSIVE = new Set([M.GLINT, M.FLOWER, M.MAGIC, M.MAGIC2, M.RUNE, M.GLOW, M.COLLAR, M.WOKEN]);
+// Glowing materials (alpha 254, drawn unlit): only magical light. Flowers, webs and cotton are lit like
+// the rest of a plant (Ed's playtest: glowing gorse flowers floated over bushes the night hid).
+export const EMISSIVE = new Set([M.GLINT, M.MAGIC, M.MAGIC2, M.RUNE, M.GLOW, M.COLLAR, M.WOKEN]);
 
 // ================= geometry: smooth outlines =================
 // Points are [x, y] in sprite pixels. A closed outline is a list of control points; the

diff --git a/CLAUDE.md b/CLAUDE.md
@@ -27,7 +27,7 @@ Not in CI, run by builders before a FINAL: `npm run build && npm run smoke`, a h
 
 The art generator (`art/`, entry `art/generator.js`) and the Witch Art Lab (`tools/art-lab/`) have one more check, not in CI, run from the repository root before every push that touches them:
 
-- `node art/check.mjs` — builds the lab, opens the source page and the built page in headless Chromium (no script errors, a bestiary card for every species, the scene drawn), and draws every creature, tree, bush, area type, soundsystem and sigil (each non-empty, creatures and soundsystems standing on their bottom row; baby < young < adult < legend for every species, and the bigger species' adults 1.15 to 1.45 times the witch; party gear (collar, hat, shoes) shows on every species at baby, young and adult without changing its size, woken eyes glow red, partyGear is seeded and varied; a soundsystem about three times the witch; every species has a sigil that renders as vector, as a 12 px glyph, on the ground and floating, its strokes inside the box, each level's ground rune bigger with more rings; the leash stack stands newest at the bottom, trails behind her flight and settles).
+- `node art/check.mjs` — builds the lab, opens the source page and the built page in headless Chromium (no script errors, a bestiary card for every species, the scene drawn), and draws every creature, tree, bush, area type, soundsystem and sigil (each non-empty, creatures and soundsystems standing on their bottom row; baby < young < adult < legend for every species, and the bigger species' adults 1.15 to 1.45 times the witch; party gear (collar, hat, shoes) shows on every species at baby, young and adult without changing its size, woken eyes glow red, partyGear is seeded and varied; only magical materials glow, and flowering areas have no glowing pixels; a soundsystem about three times the witch; every species has a sigil that renders as vector, as a 12 px glyph, on the ground and floating, its strokes inside the box, each level's ground rune bigger with more rings; the leash stack stands newest at the bottom, trails behind her flight and settles).
 
 Related commands: `node tools/art-lab/build.mjs` writes the self-contained lab page to `tools/art-lab/dist/witch-art-lab.html` (the one to publish); `node art/export.mjs [style.json] [out dir]` exports every asset as albedo and normal-map PNGs with `manifest.json` (default `art/out/`, not committed); `node art/preview.mjs animals|trees|areas|lights|soundsystems|sigils <list> <png> [scale]` renders lit preview sheets. They need Playwright's Chromium (in cloud sessions, under `/opt/pw-browsers`).
 
